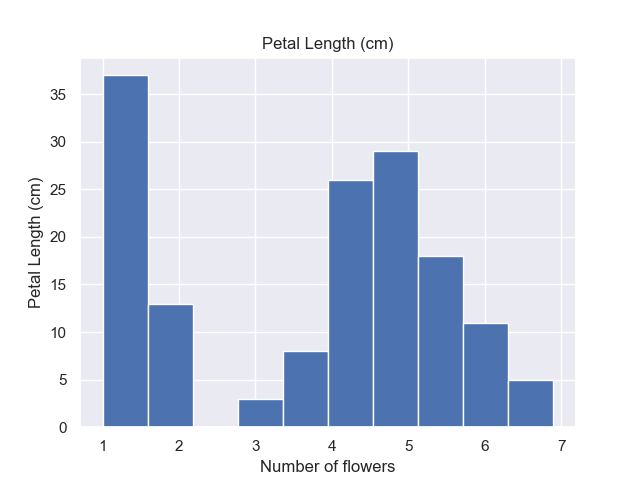
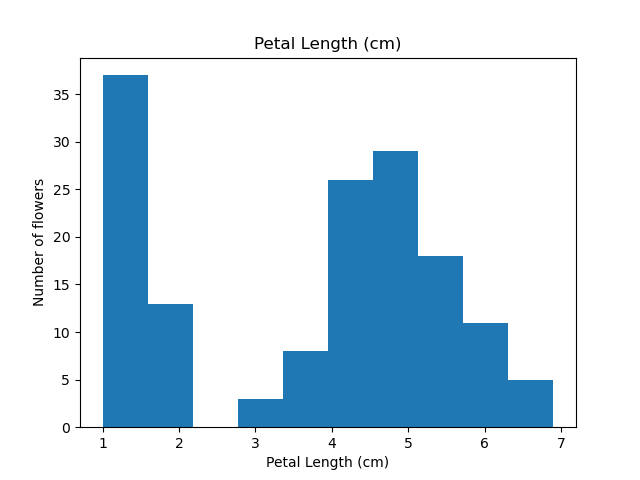
final submission

diff --git a/analysis.py b/analysis.py
@@ -7,13 +7,13 @@ import matplotlib.pyplot as plt
 import numpy as np
 import pandas as pd
 
-# loading the iris data set
+# load the iris data set
 df = pd.read_csv("iris.csv")
 
 # create the file we'll save a summary of the variables in and open it in write mode
 file = open("Variable Summary.txt", "w")
-# give an overview of tha data and add the averages for each variable to the text file
-file.write(f"This is an overview of the data in the set: \n\n{df}\n\nThese are the average values for each of the variables in this dataset: \n\n{df.describe()}\n\nCalculating the correlation coefficients for each pair of variables allows us to see if there's any correlation between them.\nThe closer the coefficient is to 1/-1, the stronger the correlation.\nThe closer the coefficient is to 0, the weaker the correlation")
+# give an overview of the data and add the averages for each variable to the text file
+file.write(f"This is an overview of the data in the set: \n\n{df}\n\n150 specimens were observed, with each having five physical characteristics recorded.\n\nThese are the average values for each of the variables in this dataset: \n\n{df.describe()}\n\nCalculating the correlation coefficients for each pair of variables allows us to see if there's any correlation between them.\nThe closer the coefficient is to 1/-1, the stronger the correlation.\nThe closer the coefficient is to 0, the weaker the correlation")
 # close the text file
 file.close()
 
@@ -23,8 +23,8 @@ def generate_hist(variable):
     histogram_data = variable # get the data for the histogram
     histogram_data = histogram_data.to_numpy() # convert data frame to array so we can plot it
     ax.hist(histogram_data) # create the histogram
-    ax.set_xlabel("Number of flowers") # label the x axis
-    ax.set_ylabel(plot_name) # label the y axis based on the variable we're looking at
+    ax.set_xlabel(plot_name) # label the x axis based on the variable we're looking at
+    ax.set_ylabel("Number of flowers") # label the y axis
     ax.set_title(plot_name) # put a title on the plot
     fig.savefig(f"{plot_name}.png") # save the plot as a PNG file 
 

diff --git a/README.md b/README.md
@@ -4,7 +4,11 @@
 
 The *Iris* dataset (also known as Fisher's Iris dataset) is a dataset made famous by Fisher in his paper *The uses of multiple measurements in taxonomic problems*, published in September 1936<sup>1</sup>. The dataset consists of 150 samples of iris flowers and records their species, sepal length and width, and petal length and width. Originally collected by Anderson for his 1936 discussion<sup>2</sup> of the species problem<sup>3</sup>, Fisher used the dataset to demonstrate linear discriminant analysis<sup>4</sup>.
 
-Of the three species listed in the dataset, two had samples collected from the same colony (*Iris setosa* and *Iris veriscolor*), while samples of the third (*Iris virginia*) were collected from a different colony. Fisher notes in Section VI of his paper that this "might considerably disturb both the mean values and their variabilities".
+Existing discussions<sup>5</sup><sup>6</sup><sup>7</sup> of this dataset have noted its popularity in demonstrations of data analysis and use as a training dataset for machine learning, while others<sup>8</sup> have noted its lack of missing values and ties to eugenics research as reasons to move away from the use of *Iris* for these purposes.
+
+Of the three species listed in the dataset, two had samples collected from the same colony (*Iris setosa* and *Iris versicolor*), while samples of the third (*Iris virginia*) were collected from a different colony. Fisher notes in Section VI of his paper that this "might considerably disturb both the mean values and their variabilities". Sharma<sup>5</sup>, panData<sup>6</sup> and Pandey<sup>7</sup> have all differentiated between these three species while carrying out their analyses, whereas for this analysis we've simply looked at the dataset as a whole.
+
+We can see from the histograms generated by the analysis.py program that the values for sepal width and length each show an approximately normal distribution, while the values for petal width and length show a more varied distribution. We can also see from the scatter plots that there is a strong correlation between petal length and width, but hardly any correlation between sepal length and width. There is also a much stronger correlation between sepal length and both petal measurements than there is between sepal width and both petal measurements (although the correlation here is still stronger than the correlation between sepal width and length).
 
 ## Code
 
@@ -16,7 +20,7 @@ The aim of the analysis.py program is to produce an analysis of the *Iris* datas
 
 ### Required Software
 
-The code for the analysis.py program is written in Python, meaning you'll need to have Python installed to run it. I've used [Anaconda](https://www.anaconda.com/download) as the installer, with [Visual Studio Code](https://code.visualstudio.com/) as the code editor, but you can use whatever you prefer. 
+The code for the analysis.py program is written in Python, meaning you'll need to have Python installed to run it. I've used [Anaconda](https://www.anaconda.com/download) as the installer, with [Visual Studio Code](https://code.visualstudio.com/) as the code editor, but you can use whatever you prefer. The *Iris* datset is included as a CSV file in this repository, but line 11 of the code can be modified to use a URL by inserting this into the pd.read_csv function in place of the iris.csv filename.
 
 ## References
 
@@ -24,6 +28,10 @@ The code for the analysis.py program is written in Python, meaning you'll need t
 1. *The species problem in Iris*, E. Anderson, 1936, *Annals of the Missouri Botanical Garden*, Volume 23, Issue 3, pages 457-469, 471-483, 485-501, 503-509 https://www.jstor.org/stable/2394164?origin=crossref%3Forigin%3Dcrossref&seq=1
 1. *Introduction to the Species Problem*, F. E. Zachos, 2016, *Species Concepts in Biology* https://link.springer.com/chapter/10.1007/978-3-319-44966-1_1
 1. *PCA versus LDA*, A. M. Martinez and A. C. Kak, 2001, *IEEE Transactions on Pattern Analysis and Machine Intelligence*, Volume 23, Issue 2, pages 228-233 https://ieeexplore.ieee.org/stamp/stamp.jsp?tp=&arnumber=908974
+1. *Exploratory Data Analysis : Iris Dataset*, P. Sharma, 2021, *Analytics Vidhya* https://medium.com/analytics-vidhya/exploratory-data-analysis-iris-dataset-4df6f045cda
+1. *Unveiling the mysteries of the Iris dataset: A comprehensive analysis and Machine Learning Classification*, 🐼 panData, 2023, *Level Up Coding* https://levelup.gitconnected.com/unveiling-the-mysteries-of-the-iris-dataset-a-comprehensive-analysis-and-machine-learning-f5c4f9dbcd6d
+1. *Exploratory Data Analysis on Iris Dataset in Python*, H. Pandey, 2024 https://flexiple.com/python/exploratory-data-analysis-on-iris-dataset
+1. *Palmer Archipelago Penguins Data in the palmerpenguins R Package - An Alternative to Anderson’s Irises*, Horst et al., 2022, *The R Journal*, Vol. 14, Issue 1 https://journal.r-project.org/articles/RJ-2022-020/RJ-2022-020.pdf 
 1. https://archive.ics.uci.edu/dataset/53/iris (UCI Machine Learning Repository - Iris dataset)
 1. https://www.w3schools.com/python/python_file_write.asp (how to have the program create a txt file)
 1. https://flexiple.com/python/python-new-line (how to insert line breaks when writing to a txt file)
